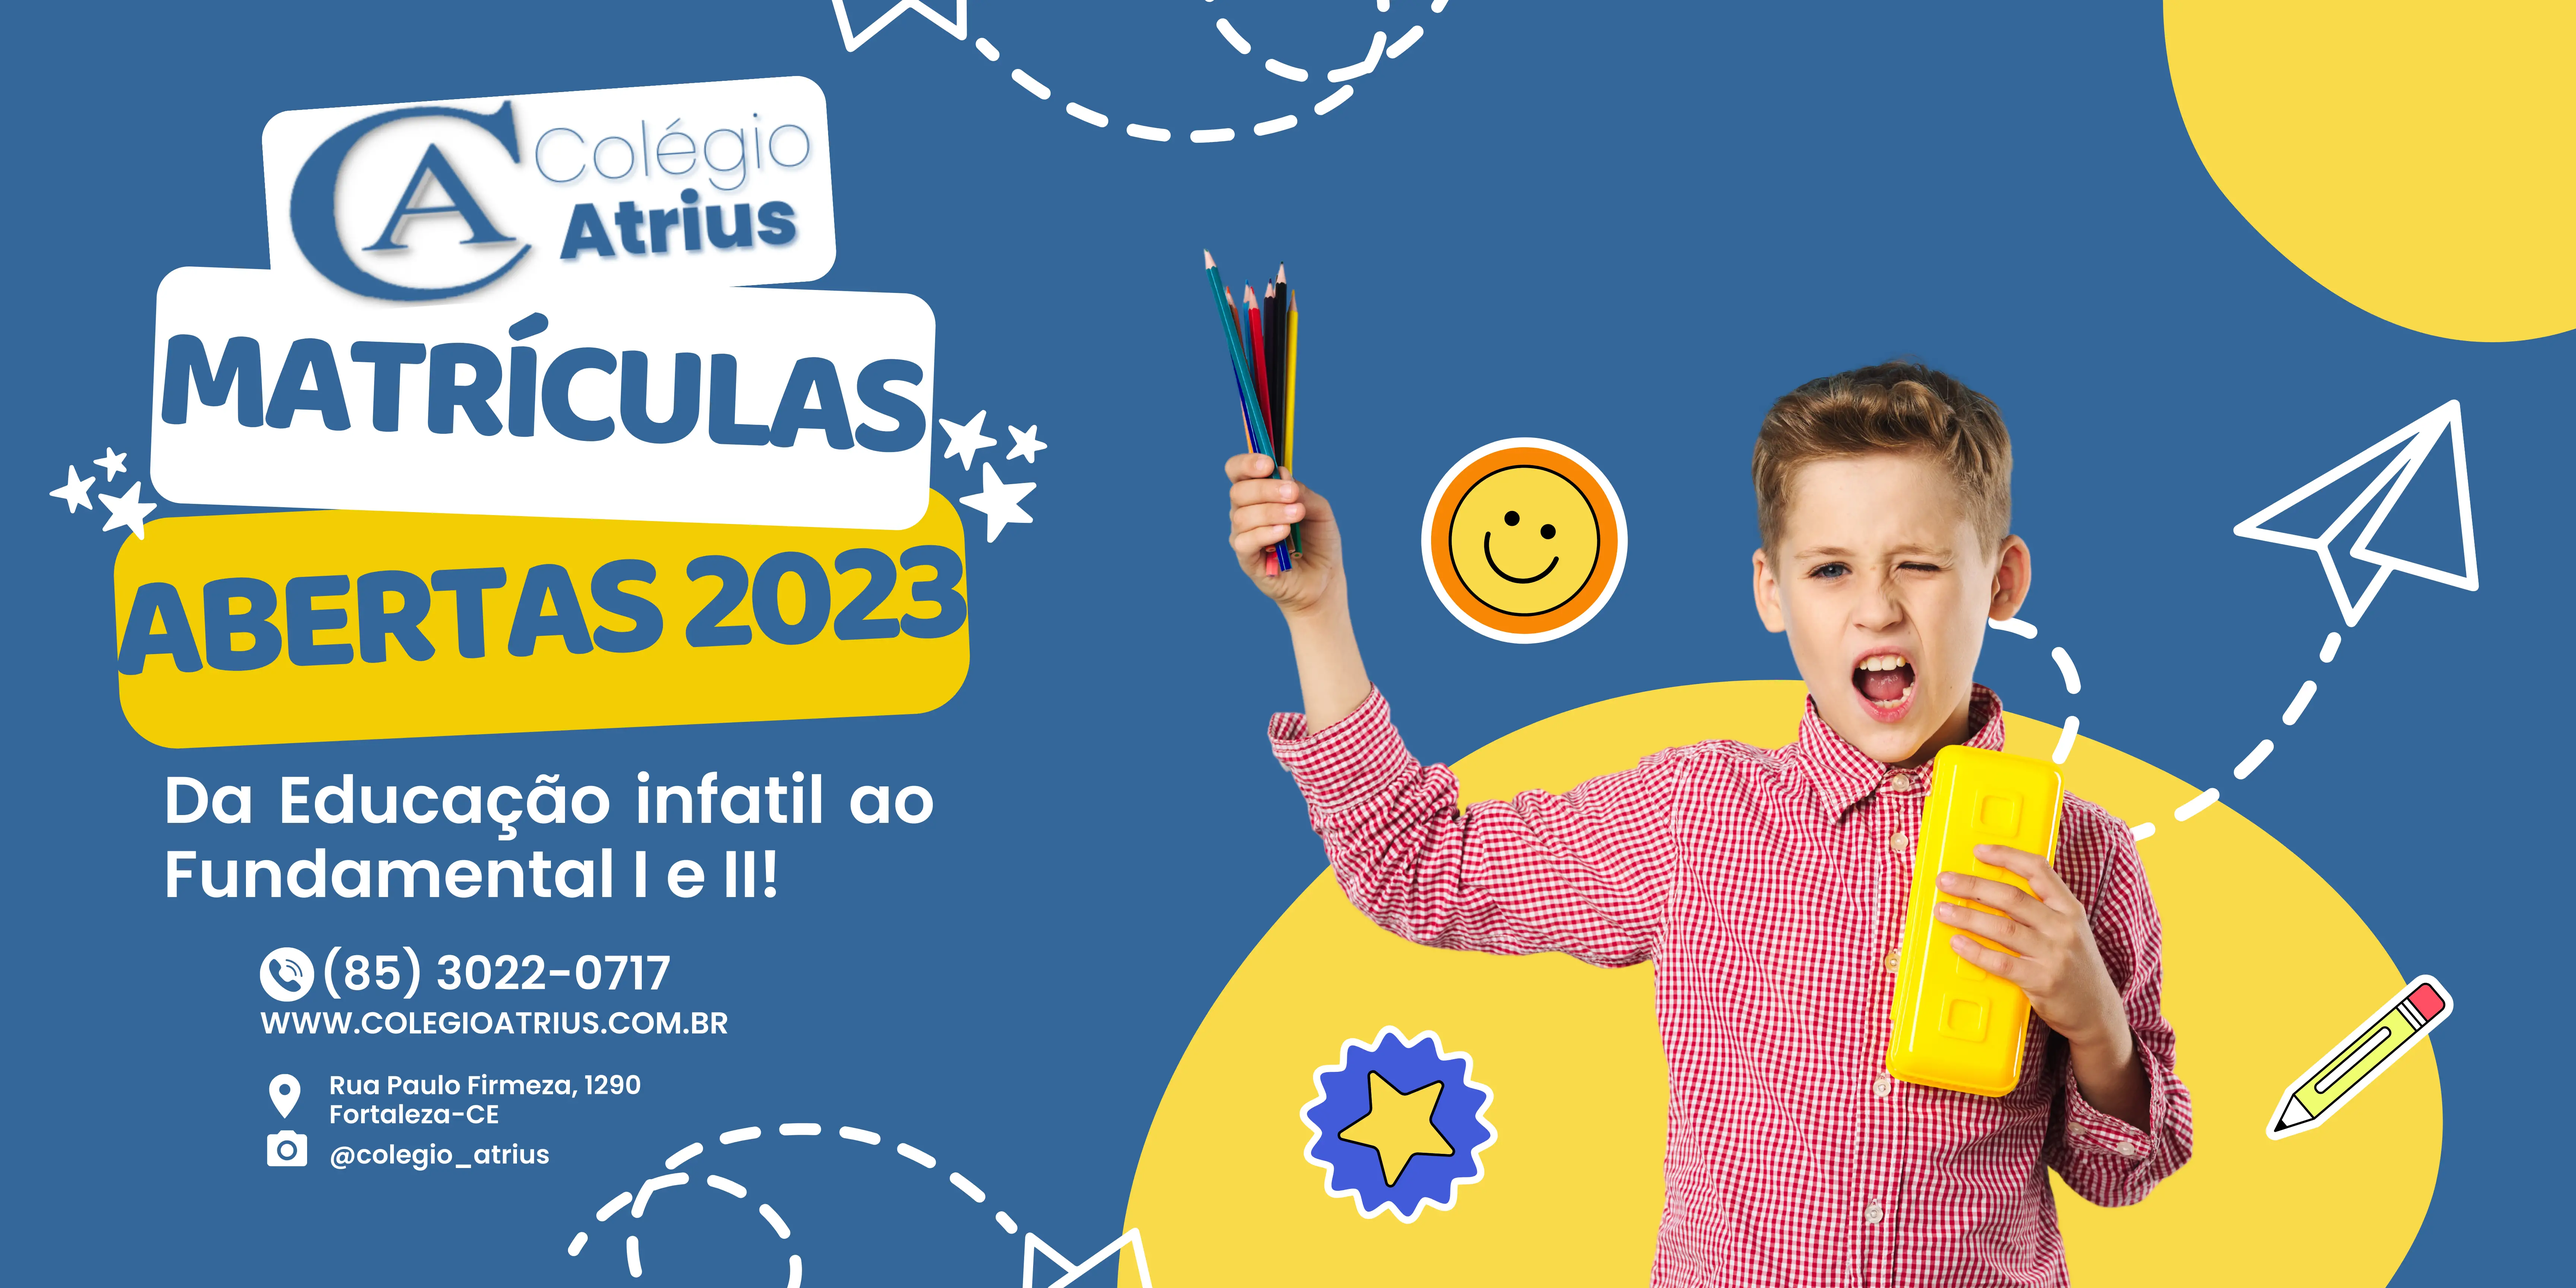
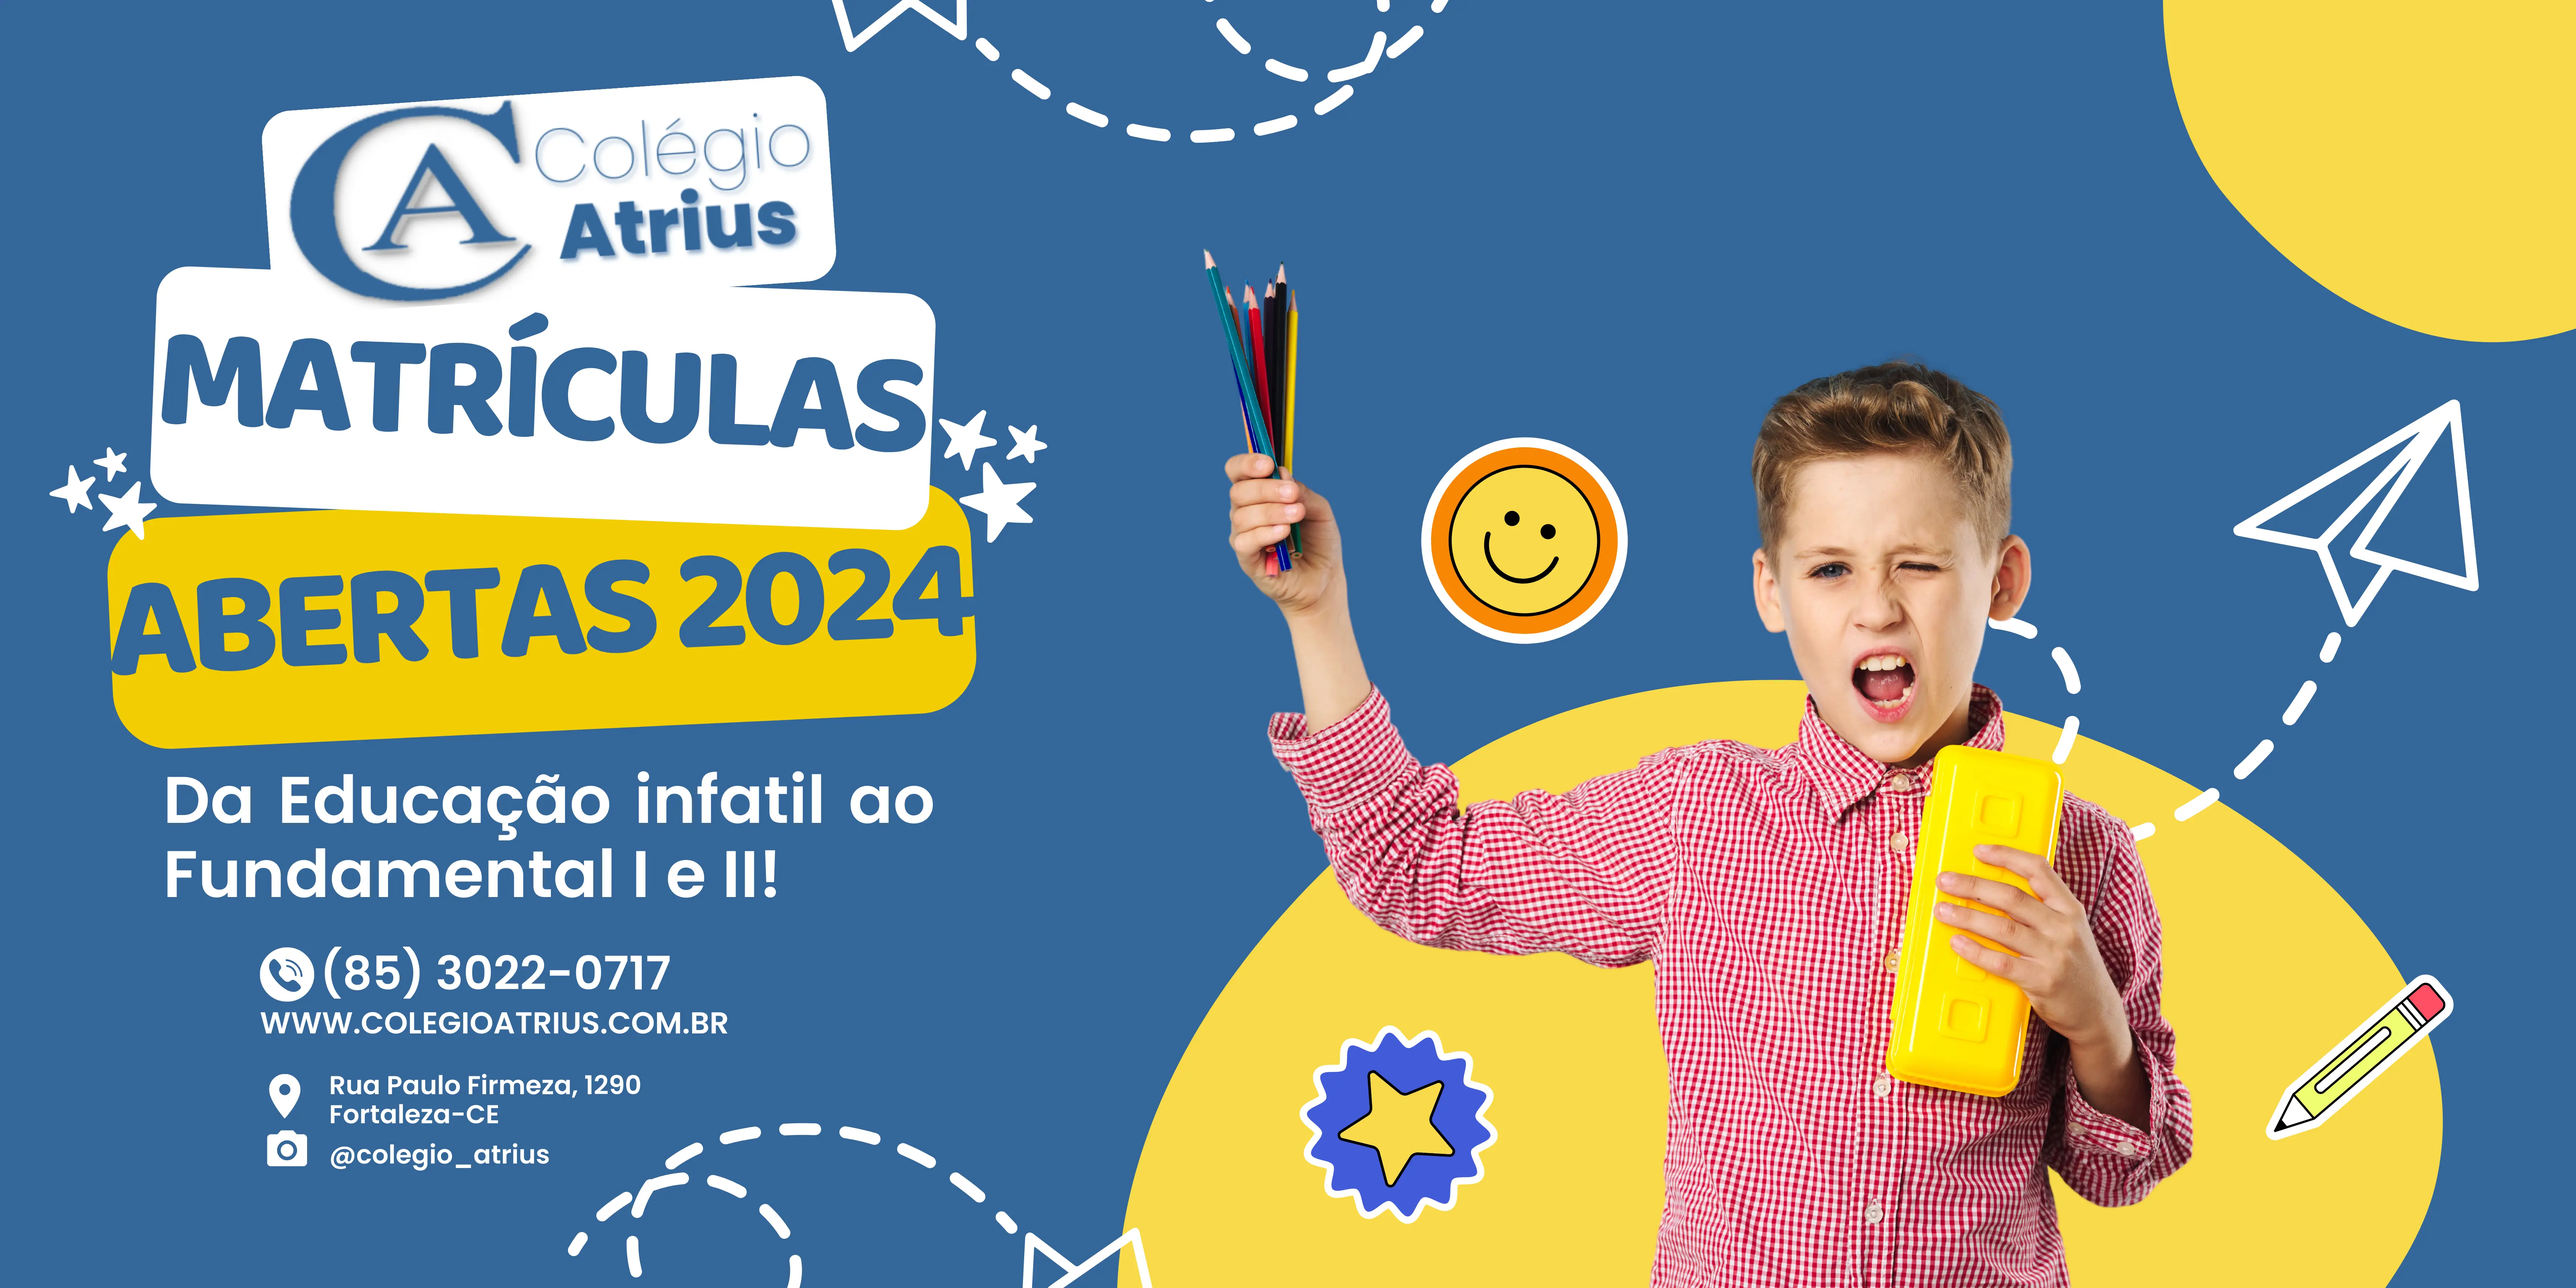
#img fix

Changed region(s): [[0.0312, 0.4062, 0.375, 0.5312]]

diff --git a/src/index.html b/src/index.html
@@ -46,7 +46,7 @@
                 <li><a href="#diferencial"class='links'>Diferencial</a></li>
                 <li><a href="#ensino"class='links'>Ensino</a></li>
                 <li><a href="#galeria"class='links'>Galeria</a></li>
-                <li><a href="form-maticula.html"class='links'>Matrículas 2023</a></li>
+                <li><a href="form-maticula.html"class='links'>Matrículas</a></li>
                 <li><a href="#contato"class='links'>Contato</a></li>
                 </ul>
             </nav>

diff --git a/src/css/styles.css b/src/css/styles.css
@@ -513,7 +513,7 @@ margin-right: auto;
     width: 250px;
   } */
   .banner-container {
-    background-image: url('../img/banner-mat-2023-mobile.png');
+    background-image: url('../img/banner-mat-2023-mobile.webp');
   }
   .sobre-text p{
     width: 400px;
